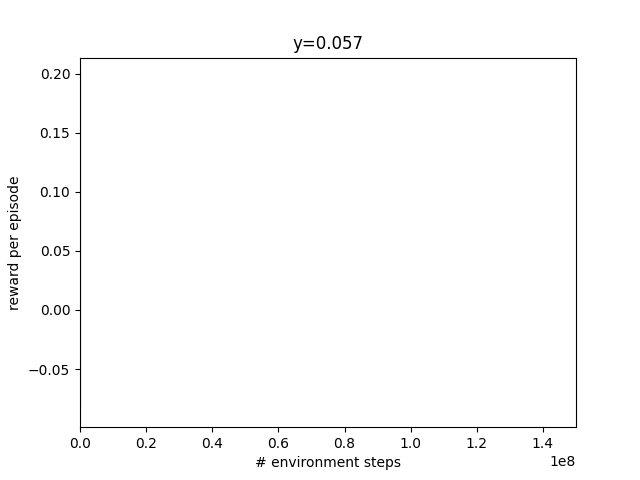
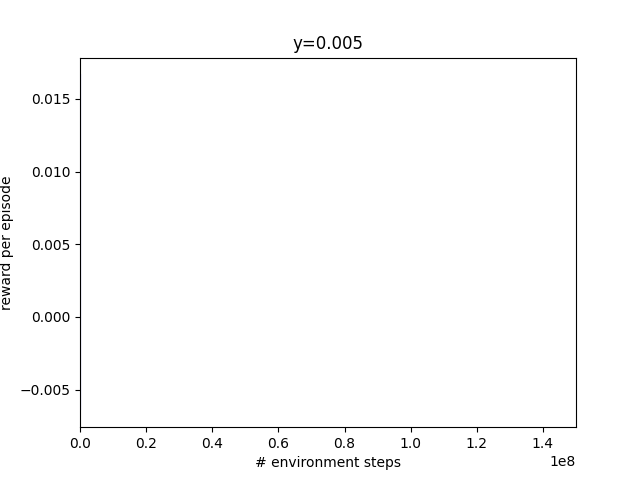
training with base line reward names

diff --git a/train_pgnd.py b/train_pgnd.py
@@ -8,7 +8,7 @@ import matplotlib.pyplot as plt
 from brax.training.agents.ppo import networks as ppo_networks
 from brax.training.agents.ppo import train as ppo
 from mujoco_playground import wrapper
-from playground.booster.config import ppo_params
+from playground.booster.config import ppo_params, baseline_reward_names
 env_cfg = joystick.default_config()
 env = joystick.Joystick()
 eval_env = joystick.Joystick()
@@ -16,6 +16,7 @@ ppo_training_params = dict(ppo_params)
 
 
 x_data, y_data, y_dataerr = [], [], []
+y_data_baseline = []
 times = [datetime.now()]
 
 def progress(num_steps, metrics):
@@ -26,6 +27,13 @@ def progress(num_steps, metrics):
   x_data.append(num_steps)
   y_data.append(metrics["eval/episode_reward"])
   y_dataerr.append(metrics["eval/episode_reward_std"])
+
+  baseline_rew = 0.0
+  for rname in baseline_reward_names:
+    name = "eval/episode_reward/" + rname
+    if name in metrics:
+      baseline_rew += metrics[name]
+  y_data_baseline.append(baseline_rew)
 
   plt.xlim([0, ppo_params["num_timesteps"] * 1.25])
   plt.xlabel("# environment steps")

diff --git a/colab_train_pd_pgnd.py b/colab_train_pd_pgnd.py
@@ -7,7 +7,7 @@ import matplotlib.pyplot as plt
 from brax.training.agents.ppo import networks as ppo_networks
 from brax.training.agents.ppo import train as ppo
 from mujoco_playground import wrapper
-from playground.booster.config import ppo_params, baseline_reward_names
+from playground.booster.config import ppo_params
 
 def make_trainfn():
     env_cfg = joystick.default_config()
@@ -16,7 +16,6 @@ def make_trainfn():
 
 
     x_data, y_data, y_dataerr = [], [], []
-    y_data_baseline = []
     times = [datetime.now()]
 
 
@@ -26,12 +25,6 @@ def make_trainfn():
         x_data.append(num_steps)
         y_data.append(metrics["eval/episode_reward"])
         y_dataerr.append(metrics["eval/episode_reward_std"])
-        baseline_rew = 0.0
-        for rname in baseline_reward_names:
-            name = "eval/episode_reward/" + rname
-            if name in metrics:
-                baseline_rew += metrics[name]
-        y_data_baseline.append(baseline_rew)
 
         plt.xlim([0, ppo_params["num_timesteps"] * 1.25])
         plt.xlabel("# environment steps")

diff --git a/playground/booster/config.py b/playground/booster/config.py
@@ -1,5 +1,39 @@
 from ml_collections import config_dict
 
+baseline_reward_names = [
+    # Tracking related rewards.
+    "tracking_lin_vel",
+    "tracking_ang_vel",
+    # Base related rewards.
+    "lin_vel_z",
+    "ang_vel_xy",
+    "orientation",
+    "base_height",
+    # Energy related rewards.
+    "torques",
+    "action_rate",
+    "energy",
+    "dof_acc",
+    "dof_vel",
+    # Feet related rewards.
+    "feet_clearance",
+    "feet_air_time",
+    "feet_slip",
+    "feet_height",
+    "feet_phase",
+    # Other rewards.
+    "stand_still",
+    "alive",
+    "termination",
+    # Pose related rewards.
+    "joint_deviation_knee",
+    "joint_deviation_hip",
+    "dof_pos_limits",
+    "pose",
+    "feet_distance",
+    "collision",
+]
+
 ppo_params = config_dict.create(
       num_timesteps=100_000_000,
       num_evals=10,

diff --git a/playground/booster/joystick.py b/playground/booster/joystick.py
@@ -62,10 +62,10 @@ def default_config() -> config_dict.ConfigDict:
               base_height=0.0,
               # Energy related rewards.
               torques=0.0,
-              action_rate=-0.005,
+              action_rate=-0.001,
               energy=0.0,
-              dof_acc=0.0,
-              dof_vel=0.0,
+              dof_acc=-5e-7,
+              dof_vel=-5e-5,
               # Feet related rewards.
               feet_clearance=0.0,
               feet_air_time=2.0,
@@ -75,7 +75,7 @@ def default_config() -> config_dict.ConfigDict:
               # Other rewards.
               stand_still=0.0,
               alive=0.25,
-              termination=0.0,
+              termination=-100.0,
               # Pose related rewards.
               joint_deviation_knee=-0.1,
               joint_deviation_hip=-0.1,

diff --git a/lowctrl/ft_ref.py b/lowctrl/ft_ref.py
@@ -173,16 +173,16 @@ def ctrl2components(data, act, ids):
     vel_limit = jnp.ones_like(tau_limits) * 10.0
     qvel = data.qvel[ids["joint_vel_ids"]][6:]
     tau_naive = tau_limits * torque_logit
-    #spd_fac = jnp.clip(jnp.abs(qvel), 0.0, vel_limit) / vel_limit
-    #sign = jnp.where(qvel * torque_logit >= 0, 1.0, 0.0)
-    #tau = tau_naive * (1.0 - spd_fac * sign)
+    spd_fac = jnp.clip(jnp.abs(qvel), 0.0, vel_limit) / vel_limit
+    sign = jnp.where(qvel * torque_logit >= 0, 1.0, 0.0)
+    tau = tau_naive * (1.0 - spd_fac * sign)
 
     outputs = {
         "des_pos": des_pos,
         "des_com_vel": des_com_vel,
         "des_com_angvel": des_angvel,
         "w": w,
-        "torque": tau_naive
+        "torque": tau
     }
     return outputs
 
